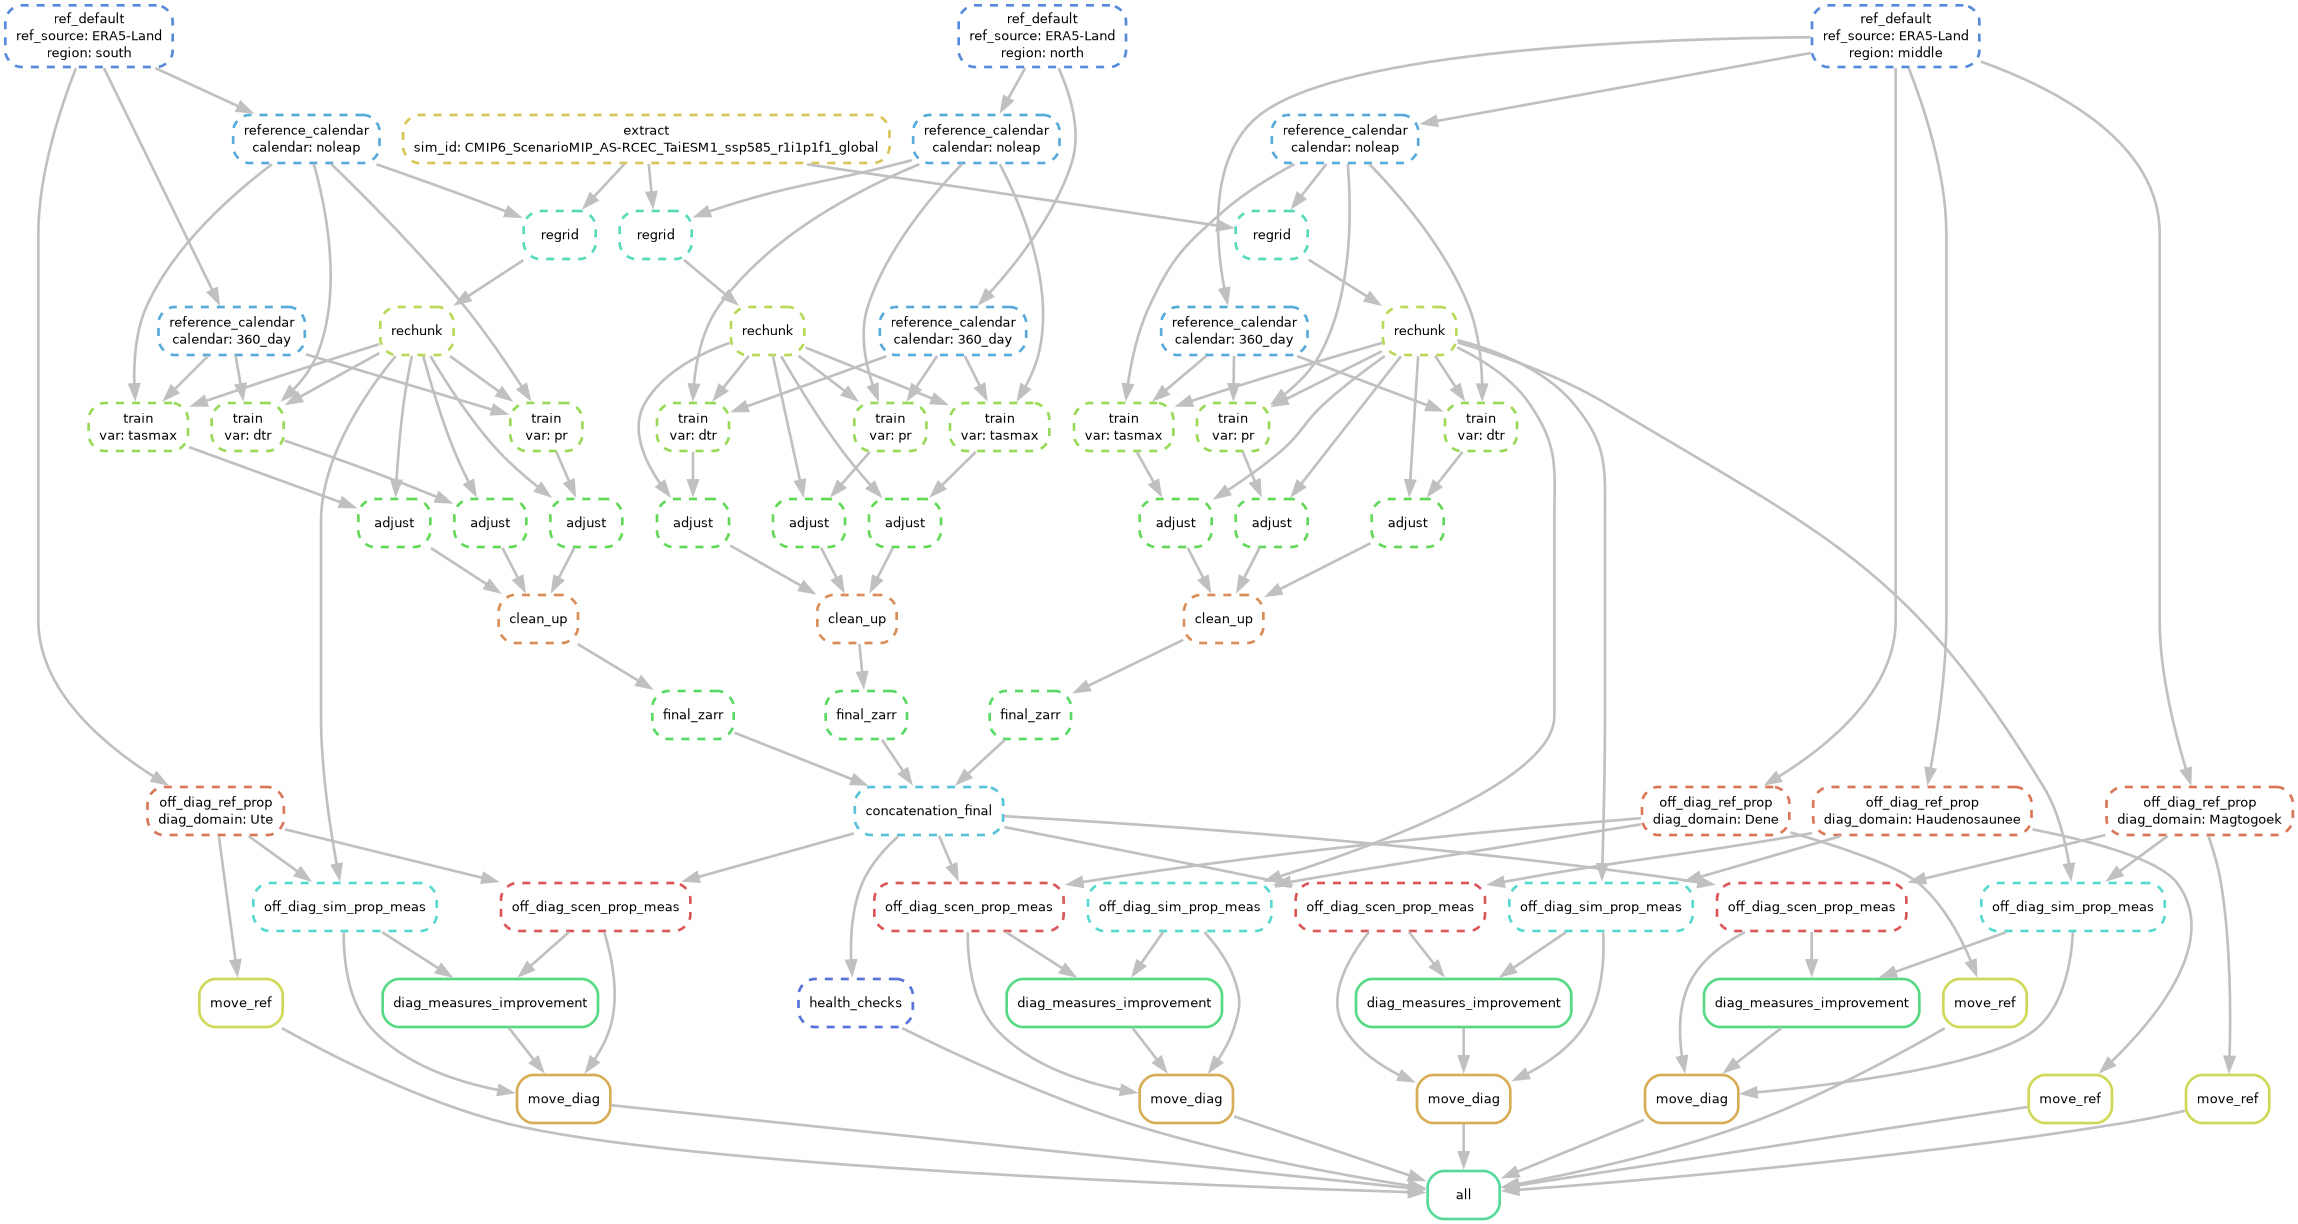
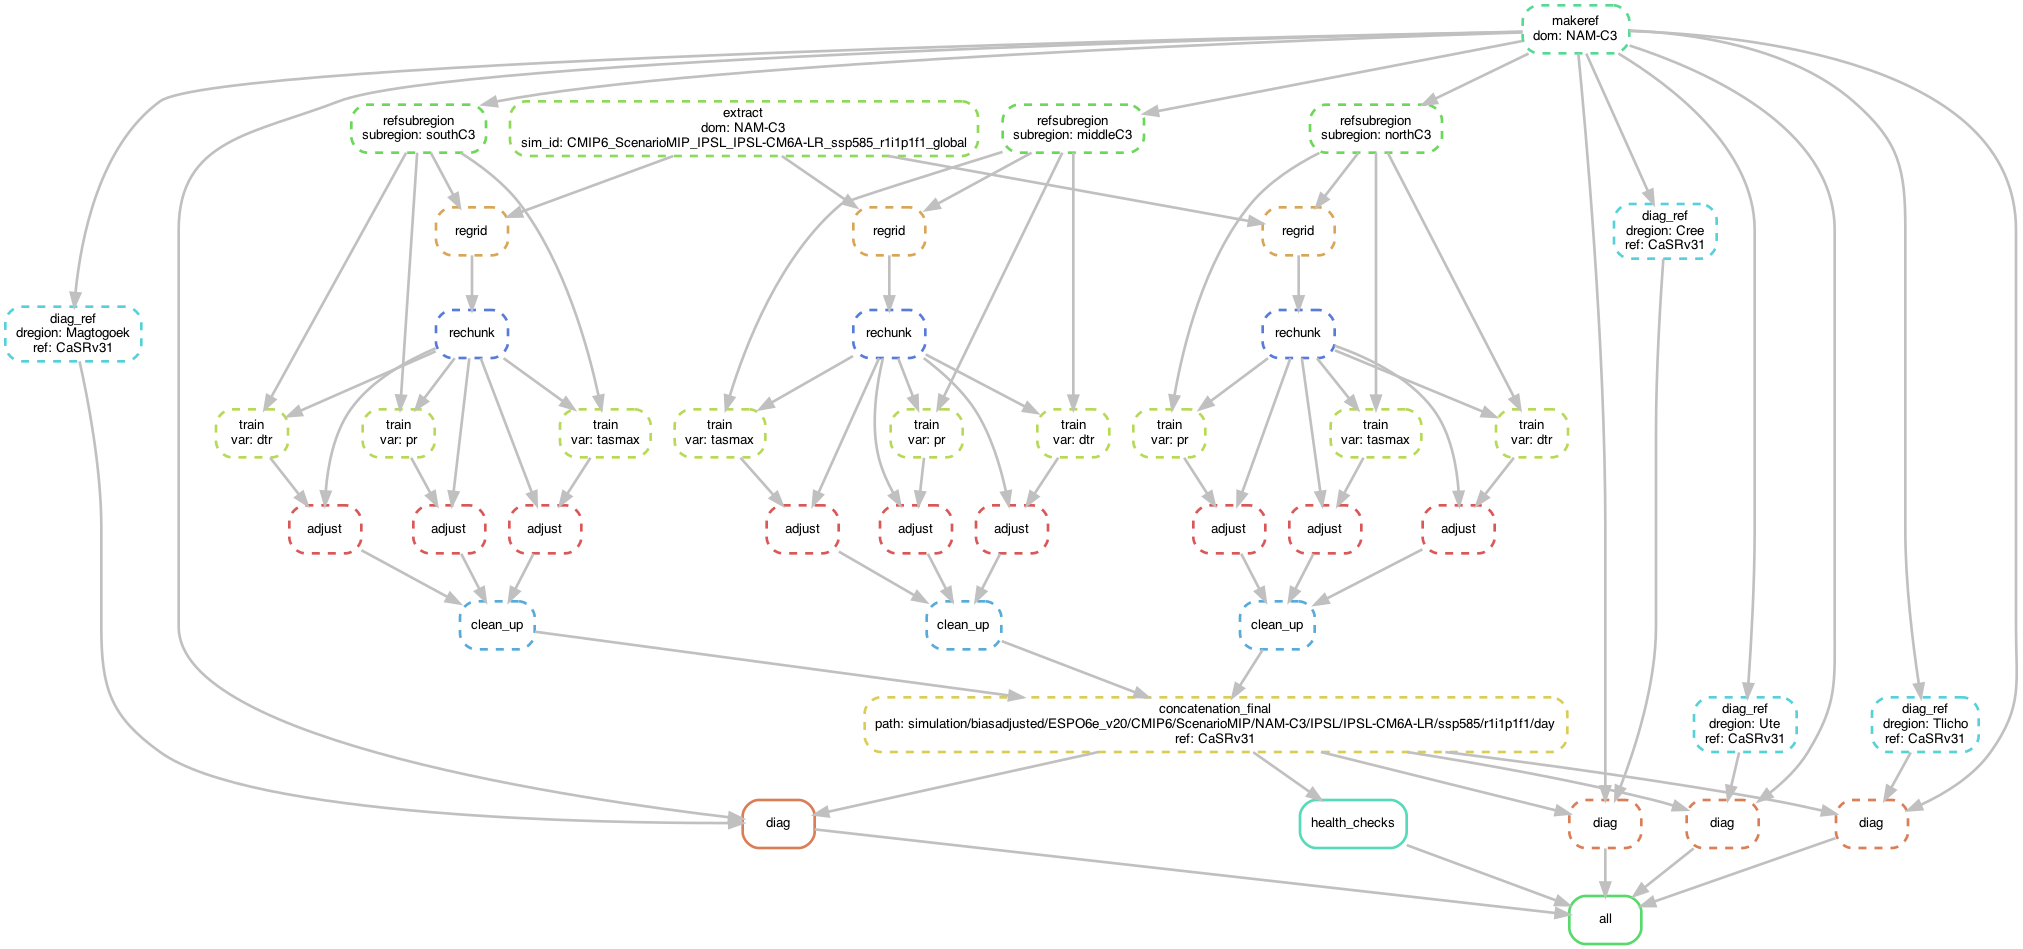
new dag

diff --git a/workflow/scripts/adjust.py b/workflow/scripts/adjust.py
@@ -40,7 +40,7 @@ if __name__ == '__main__':
         )
 
     #FIXME: until xscen>=0.13.1, add ba_ref by hand
-    ds_scen.attrs['cat:bias_adjust_reference']=CONFIG['biasadjust']['variables'][snakemake.wildcards.var]['adjusting_args'].get('bias_adjust_reference','unknown')
+    ds_scen.attrs['cat:bias_adjust_reference']=CONFIG['bias_adjust_reference']
 
     #FIXME: until xscen>=0.13.1,   final clip here instead of with xscen.clean_up
     if 'hurs' in ds_scen:

diff --git a/README.md b/README.md
@@ -39,10 +39,10 @@ Minor changes:
 
 #### Project lait-e
     
-    Includes hurs and hursTasmax. Ran initial tests for lait-e in 2025-08 on narval with xclim-0.57.1.dev10, xscen-0.12.4.dev5 and xsdba 0.5.0 wheels and numpy 1.26.4 (env dqm-np2) using config_general-2100.yml and config_QC-E5L.yml.
+  Includes hurs and hursTasmax. Ran initial tests for lait-e in 2025-08 on narval with xclim-0.57.1.dev10, xscen-0.12.4.dev5 and xsdba 0.5.0 wheels and numpy 1.26.4 (env dqm-np2) using config_general-2100.yml and config_QC-E5L.yml.
 #### Project ESPO-G6e
     
-    Includes simulation that reach 2300. Ran initial tests in 2025-09 with common env xscen-0.13 using config_general-2300.yml and config_NAM-C3.yml.
+  Includes simulation that reach 2300. Ran initial tests in 2025-09 with common env xscen-0.13 using config_general-2300.yml and config_NAM-C3.yml.
 
 
 ### v1.0
@@ -66,7 +66,7 @@ https://pavics.ouranos.ca/twitcher/ows/proxy/thredds/catalog/datasets/simulation
 
 #### Project ESPO-G6-AHCCD
 
-    * Paper coming soon.
+  Paper coming soon.
 
 
 
@@ -81,10 +81,10 @@ Extra "hot models" and SSP5-8.5 are also available even if they are not in the o
 | ACCESS-CM2     |r1i1p1f1| 2.1 | ✓ |not started|
 | ACCESS-ESM1-5  |r1i1p1f1| 1.95 | ✓ |not started|
 | BCC-CSM2-MR    |r1i1p1f1| 1.72 | ✓ |not started|
-| CMCC-ESM2     |r1i1p1f1| ? | ✓ |not started|
+| CMCC-ESM2     |r1i1p1f1| 1.92* | ✓ |not started|
 | CNRM-CM6-1     |r1i1p1f1| 2.14 | ✓ |not started|
 | CNRM-ESM2-1    |r1i1p1f1| 1.86 | ✓ |not started|
-| FGOALS-g3      |r1i1p1f1| 1.48 | ✓ |not started|
+| FGOALS-g3      |r1i1p1f1| 1.54 | ✓ |not started|
 | GFDL-ESM4      |r1i1p1f1| 1.61 | ✓ |not started|
 | MIROC-ES2L     |r1i1p1f1| 1.55 | ✓ |not started|
 | MIROC6         |r1i1p1f1| 1.55 | ✓ |not started|
@@ -93,6 +93,7 @@ Extra "hot models" and SSP5-8.5 are also available even if they are not in the o
 | MRI-ESM2-0     |r1i1p1f1| 1.64 | ✓ |not started|
 | NorESM2-LM     |r1i1p1f1| 1.48 | ✓ |not started|
 | CanESM5        |r1i1p1f1| 2.74 | x |not started|
+| CanESM5-1      |r1i1p2f1| ? | x |not started|
 | EC-Earth3      |r1i1p1f1| 2.3 | x |not started|
 | EC-Earth3-Veg  |r1i1p1f1| 2.62 | x |not started|
 | INM-CM4-8      |r1i1p1f1| 1.33 | x |not started|
@@ -105,7 +106,8 @@ Extra "hot models" and SSP5-8.5 are also available even if they are not in the o
 
 Licences: All members have a CC BY 4.0 license. https://wcrp-cmip.github.io/CMIP6_CVs/docs/CMIP6_source_id_licenses.html
 
-TCR: Computed using ESMValTool (https://docs.esmvaltool.org/en/latest/recipes/recipe_tcr.html), as done in the IPCC AR6. A previous version of this table used Hausfather et al. 2022, Climate simulations: recognize the 'hot model' problem, comment in Nature: [DOI: 10.5281/zenodo.6476375](https://doi.org/10.5281/zenodo.6476375) and gave slightly different results. See https://github.com/Ouranosinc/ESPO-G/issues/7 for discussion.
+TCR: Computed using ESMValTool (https://docs.esmvaltool.org/en/latest/recipes/recipe_tcr.html), as done in the IPCC AR6. A previous version of this table used Hausfather et al. 2022, Climate simulations: recognize the 'hot model' problem, comment in Nature: [DOI: 10.5281/zenodo.6476375](https://doi.org/10.5281/zenodo.6476375) and gave slightly different results.   See https://github.com/Ouranosinc/ESPO-G/issues/7 for discussion.
+*Note that the CMCC-ESM2 TCR is not available with the ESMValTool method. We show the one from Hausfather et al. (2022) instead.
 
 
 
